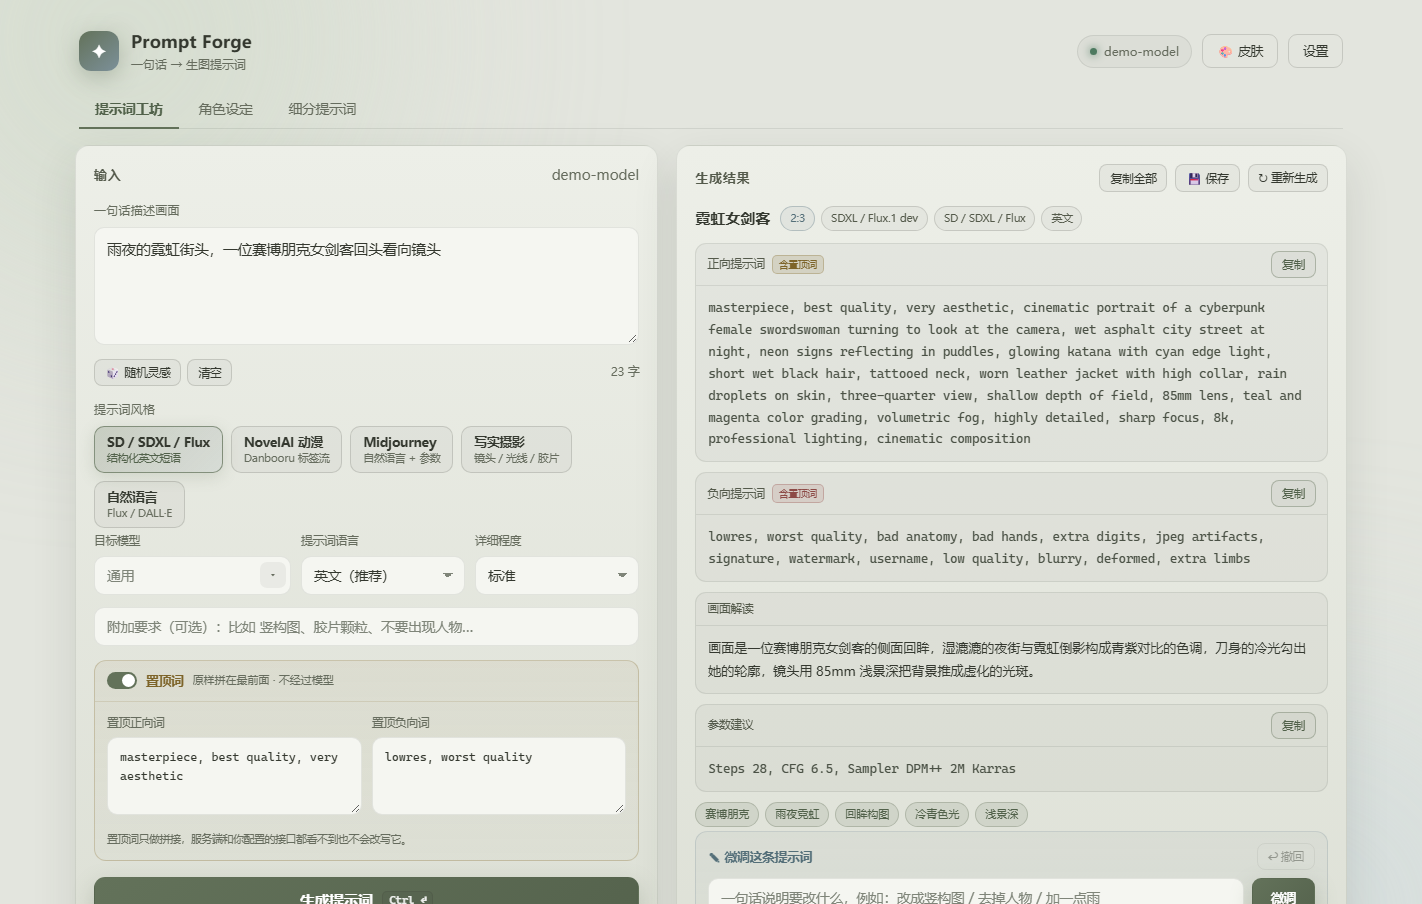
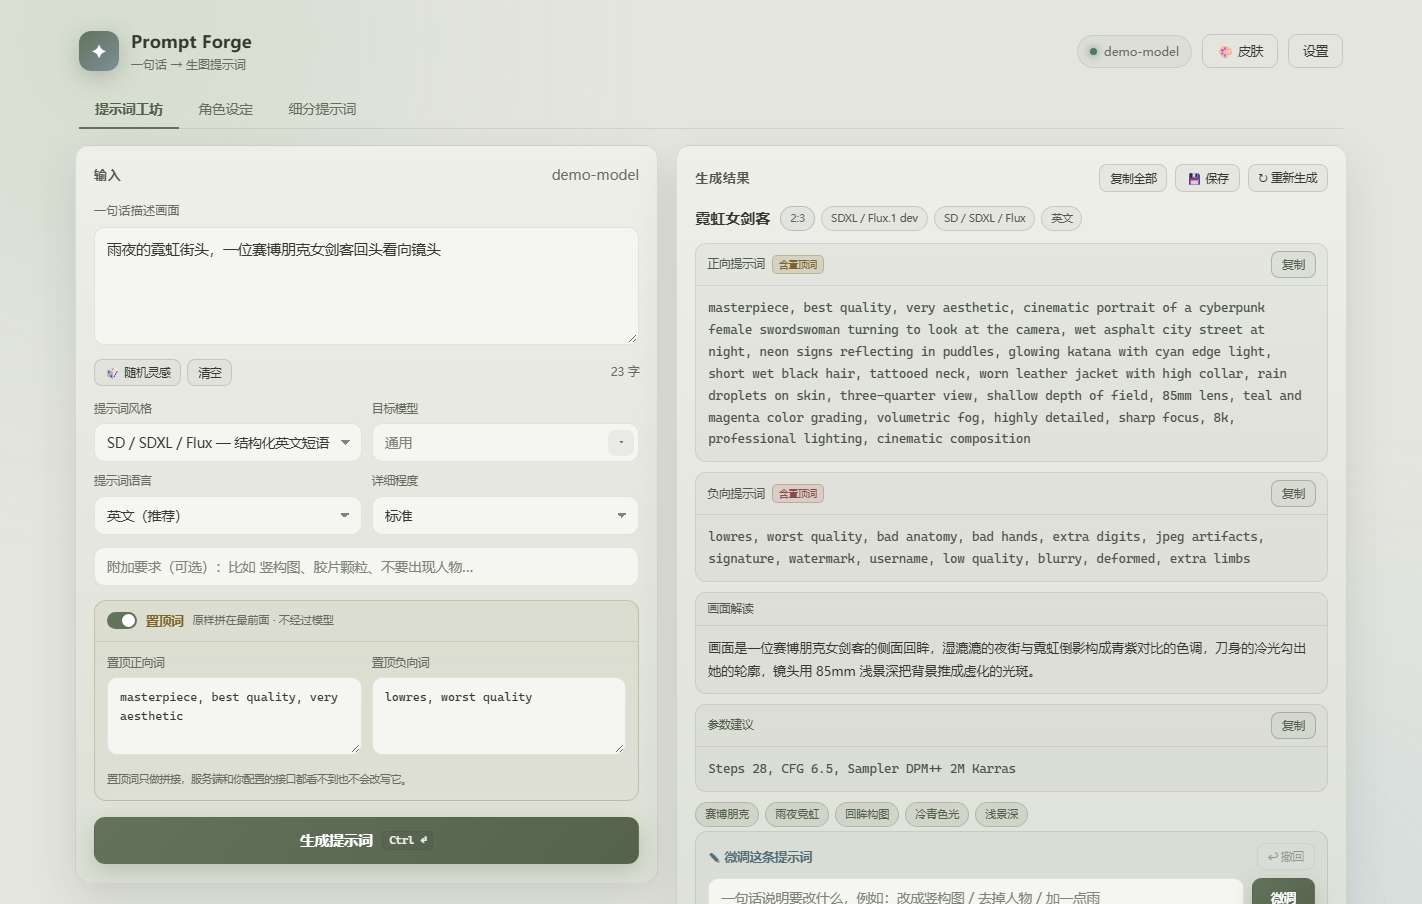
feat: turn prompt style into a dropdown option
- replace the five style chips with a native select in the composer
- arrange style / target model / language / detail as a 2x2 options grid
- sync the select when loading saved prompts or history
- refresh screenshots and tests; UI regression suite: 282 assertions

Changed region(s): [[0.0619, 0.4336, 0.4641, 1.0]]

diff --git a/src/public/app.js b/src/public/app.js
@@ -108,7 +108,7 @@ const TARGET_PRESETS = [
 
 /* ============ 启动 ============ */
 document.addEventListener('DOMContentLoaded', () => {
-  renderStyleChips();
+  renderStyleOptions();
   renderRefineChips();
   renderCharRefineChips();
   renderSegTypeChips();
@@ -121,21 +121,21 @@ document.addEventListener('DOMContentLoaded', () => {
   refreshLibraryCount();
 });
 
-function renderStyleChips() {
-  const box = $('#styleChips');
-  box.innerHTML = '';
+function renderStyleOptions() {
+  const sel = $('#styleSelect');
+  if (!sel) return;
+  if (!STYLES.some((x) => x.id === S.style)) S.style = 'sd';
+  sel.innerHTML = '';
   for (const st of STYLES) {
-    const b = document.createElement('button');
-    b.type = 'button';
-    b.className = 'chip' + (st.id === S.style ? ' active' : '');
-    b.dataset.id = st.id;
-    b.innerHTML = `<b>${st.label}</b><small>${st.desc}</small>`;
-    b.addEventListener('click', () => {
-      S.style = st.id;
-      box.querySelectorAll('.chip').forEach((c) => c.classList.toggle('active', c.dataset.id === st.id));
-    });
-    box.appendChild(b);
+    const o = document.createElement('option');
+    o.value = st.id;
+    o.textContent = `${st.label} — ${st.desc}`;
+    sel.appendChild(o);
   }
+  sel.value = S.style;
+  sel.addEventListener('change', () => {
+    S.style = sel.value;
+  });
 }
 
 function renderSegTypeChips() {
@@ -1131,10 +1131,8 @@ function loadSavedPrompt(meta, fallbackTitle) {
     historyAt: null,
     pinsBaked: true,   // 保存时置顶词已经拼进去了，别再拼一次
   };
-  if (S.style !== (meta.style || 'sd')) {
-    S.style = meta.style || 'sd';
-    document.querySelectorAll('#styleChips .chip').forEach((c) => c.classList.toggle('active', c.dataset.id === S.style));
-  }
+  S.style = STYLES.some((x) => x.id === meta.style) ? meta.style : 'sd';
+  $('#styleSelect').value = S.style;
   if (meta.sentence) {
     $('#sentence').value = meta.sentence;
     refreshCounter();
@@ -1416,8 +1414,8 @@ function restoreHistoryEntry(h) {
     stack: [parsed],
     historyAt: h.at,
   };
-  S.style = h.style || 'sd';
-  document.querySelectorAll('#styleChips .chip').forEach((c) => c.classList.toggle('active', c.dataset.id === S.style));
+  S.style = STYLES.some((x) => x.id === h.style) ? h.style : 'sd';
+  $('#styleSelect').value = S.style;
   switchView('prompt');
   $('#empty').hidden = true;
   renderResult(parsed, { sentence: h.sentence, language: lang });

diff --git a/src/public/index.html b/src/public/index.html
@@ -76,10 +76,11 @@
           <div class="idea-chips" id="ideaChips"></div>
         </div>
 
-        <div class="field-label">提示词风格</div>
-        <div class="chips" id="styleChips"></div>
-
-        <div class="opts">
+        <div class="opts four">
+          <div class="opt">
+            <label for="styleSelect">提示词风格</label>
+            <select id="styleSelect"></select>
+          </div>
           <div class="opt">
             <label for="targetModel">目标模型</label>
             <div class="combo compact" id="targetCombo">

diff --git a/src/public/styles.css b/src/public/styles.css
@@ -499,6 +499,12 @@ select {
   grid-template-columns: 1fr 1fr;
 }
 
+/* 提示词风格 / 目标模型 / 语言 / 详细程度：2×2 排布 */
+.opts.four {
+  grid-template-columns: 1fr 1fr;
+  margin-top: 14px;
+}
+
 .seg-note {
   margin: 14px 2px 0;
 }
@@ -1900,7 +1906,9 @@ select {
 }
 
 @media (max-width: 560px) {
-  .opts {
+  .opts,
+  .opts.two,
+  .opts.four {
     grid-template-columns: 1fr;
   }
 

diff --git a/README.en.md b/README.en.md
@@ -134,7 +134,7 @@ Self-signed certificates do not remove the warning.
 
 ```bash
 npm run test:static    # id references, prompt templates, theme contrast — no browser needed
-npm test               # full UI regression: 281 assertions in headless Chrome
+npm test               # full UI regression: 282 assertions in headless Chrome
 ```
 
 The UI suite boots a throwaway server against a mock OpenAI endpoint and asserts real behavior:
@@ -148,7 +148,7 @@ PASS  微调结果仍带置顶词（只带一次） (pinned prefix not duplicate
 PASS  保存的是带置顶词的实际版本 (saved file matches what you see)
 PASS  载入时置顶词没有被二次拼接 (no double-prefixing when reloading)
 ...
-281 passed, 0 failed
+282 passed, 0 failed
 ```
 
 Screenshots in `docs/` are generated by `node tests/make-screenshots.mjs`, not hand-cropped.

diff --git a/README.md b/README.md
@@ -120,7 +120,7 @@ CI 里配置 `WINDOWS_PFX_BASE64` 和 `WINDOWS_PFX_PASSWORD` 两个 Secret，打
 
 ```bash
 npm run test:static    # id 引用、prompt 模板、主题对比度，不需要浏览器
-npm test               # 完整 UI 回归：无头 Chrome 里跑 281 条断言
+npm test               # 完整 UI 回归：无头 Chrome 里跑 282 条断言
 ```
 
 UI 套件会用假接口起一个临时实例，验证真实行为：全部皮肤下每个文字节点的对比度、
@@ -133,7 +133,7 @@ PASS  微调结果仍带置顶词（只带一次）
 PASS  保存的是带置顶词的实际版本
 PASS  载入时置顶词没有被二次拼接
 ...
-281 项通过，0 失败
+282 项通过，0 失败
 ```
 
 `docs/` 里的截图由 `node tests/make-screenshots.mjs` 生成，不是手工裁剪。
